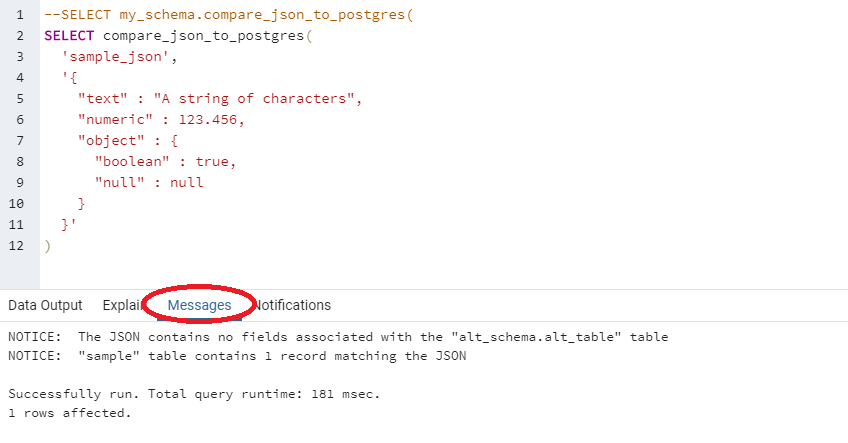
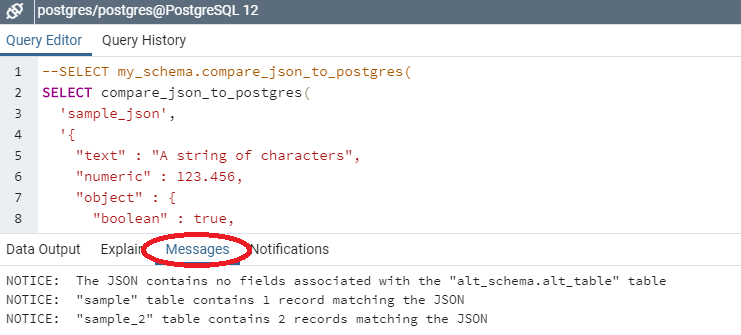
Handle basic array-containing paths

diff --git a/README.md b/README.md
@@ -12,7 +12,7 @@ Developing a method to identify whether a JSON object has been stored in a datab
 
 This section describes how to set up sample data for testing the function. If the code is to be deployed in an existing database, the sample table is not required but there must be a reference table like the one created by [mapping_details.sql](./sql/mapping_details.sql); any deviations from the format/names defined in that script must be reflected in [compare_json_to_postgres.sql](./sql/compare_json_to_postgres.sql).
 
-Executing the queries in [db_setup.sql](./sql/db_setup.sql) will create a sample table designed to store the data from a JSON payload represented by [sample.json](./resources/sample.json). The table will be populated with one record matching the contents of [sample.json](./resources/sample.json) and one non-matching record.
+Executing the queries in [db_setup.sql](./sql/db_setup.sql) will create sample tables designed to store the data from a JSON payload represented by [sample.json](./resources/sample.json). The table will be populated with one record matching the contents of [sample.json](./resources/sample.json) and one non-matching record. The array in [sample.json](./resources/sample.json) includes a pair of fields ("fake"/"faker") which are not mapped to the matching values in the database so do not produce a match from the comparison function.
 
 Executing the queries in [mapping_details.sql](./sql/mapping_details.sql) creates the reference table, populated for the sample structures plus an unused mapping for negative testing. The table created will look like this:
 
@@ -22,6 +22,8 @@ sample_json | text           | [null]        | sample      | pg_text
 sample_json | numeric        | [null]        | sample      | pg_numeric
 sample_json | object,boolean | [null]        | sample      | pg_boolean
 sample_json | object,null    | [null]        | sample      | pg_empty
+sample_json | array,int      | [null]        | sample_2    | pg_int
+sample_json | array,char     | [null]        | sample_2    | pg_char
 sample_json | altObject,int  | alt_schema    | alt_table   | pg_int
 
 - `json_type` is used to distinguish different payload types e.g. "customer", "account", "transaction".
@@ -30,12 +32,29 @@ sample_json | altObject,int  | alt_schema    | alt_table   | pg_int
 
 ### Function
 
-Executing the [compare_json_to_postgres.sql](./sql/compare_json_to_postgres.sql) script will add the stored procedure `compare_json_to_postgres(par_json_type text, par_json json)` to the database.
+Executing the [compare_json_to_postgres.sql](./sql/compare_json_to_postgres.sql) script will add the stored procedure `compare_json_to_postgres(par_json_type text, par_json json)` to the database. This script makes reference to the "mapping_details" table which must be present in the database for the function to be created.
 
-The procedure can then be invoked as demonstrated in [test_stored_function.sql](./sql/test_stored_function.sql) for the sample data.
+The stored procedure can then be invoked as demonstrated in [test_stored_function.sql](./sql/test_stored_function.sql) for the sample data.
 
 Results are output as `RAISE NOTICE` statements. In pgAdmin these are displayed on a separate tab in the Data Output panel:
 
 ![Where to find notices in pgAdmin interface](./resources/messages_in_pgadmin.png)
 
 Additional information is available from `RAISE DEBUG` statements; by default these messages are not displayed but if required they can be viewed by changing the logging level (or changing the code to raise them at NOTICE level).
+
+## Limitations
+
+Arrays encountered in a JSON path are handled by aggregating values, without regard to any association that could be inferred from the structure:
+```
+"arr" : [
+  { "int" : 1, "text" : "a"},
+  { "int" : 2, "text" : "b"}
+]
+```
+-> path "arr,int" matches 1 or 2; path "arr,text" matches "a" or "b"; records with one of the combinations (1 & "a"), (1 & "b"), (2 & "a"), (2 & "b") are all treated as matching the JSON.
+
+There is no handling of references to specific indices in an array:
+```
+"arr" : ["a", "b", "c"]
+```
+-> path "arr" matches "a" or "b" or "c"; path "arr,1" matches nothing.
